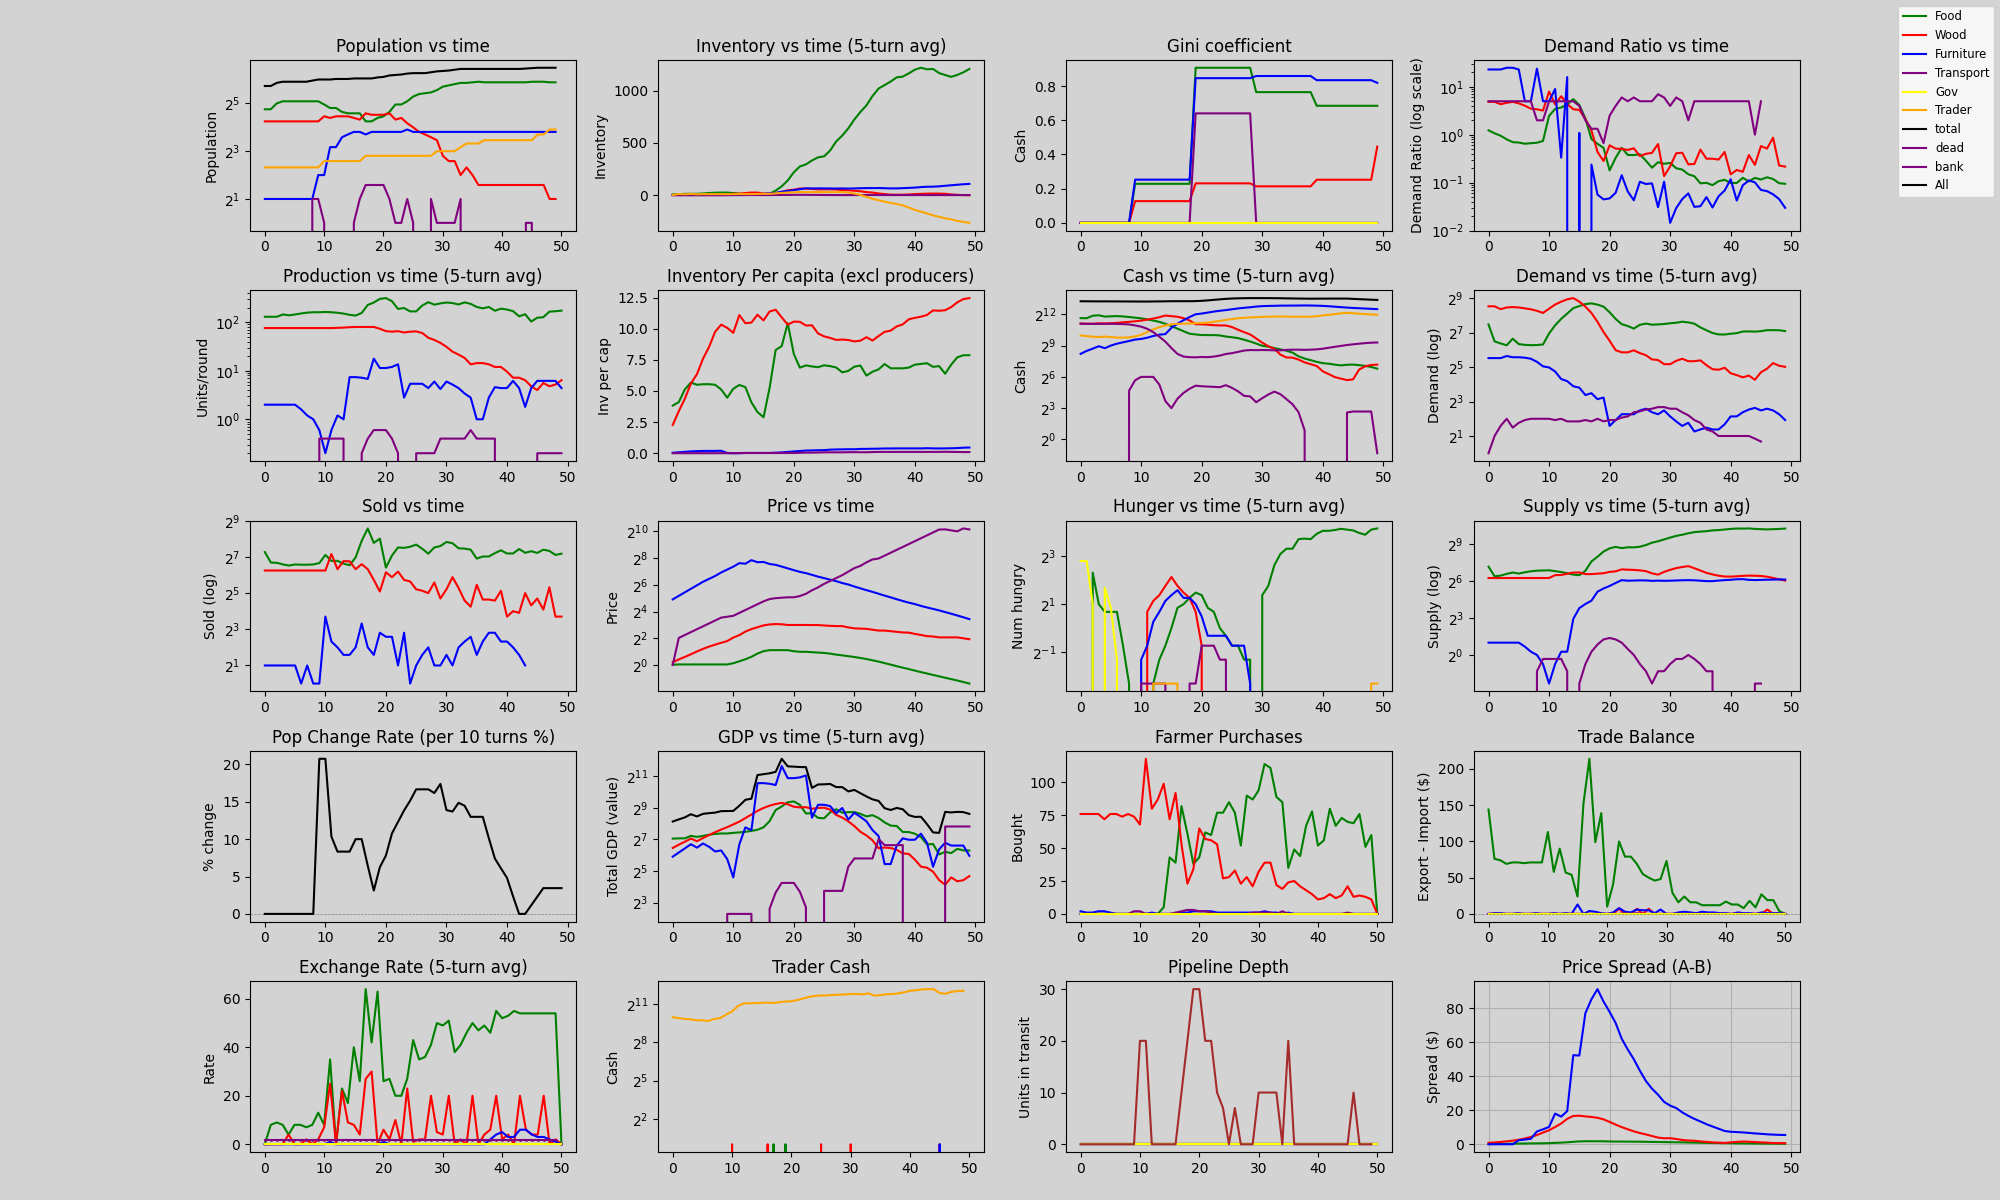
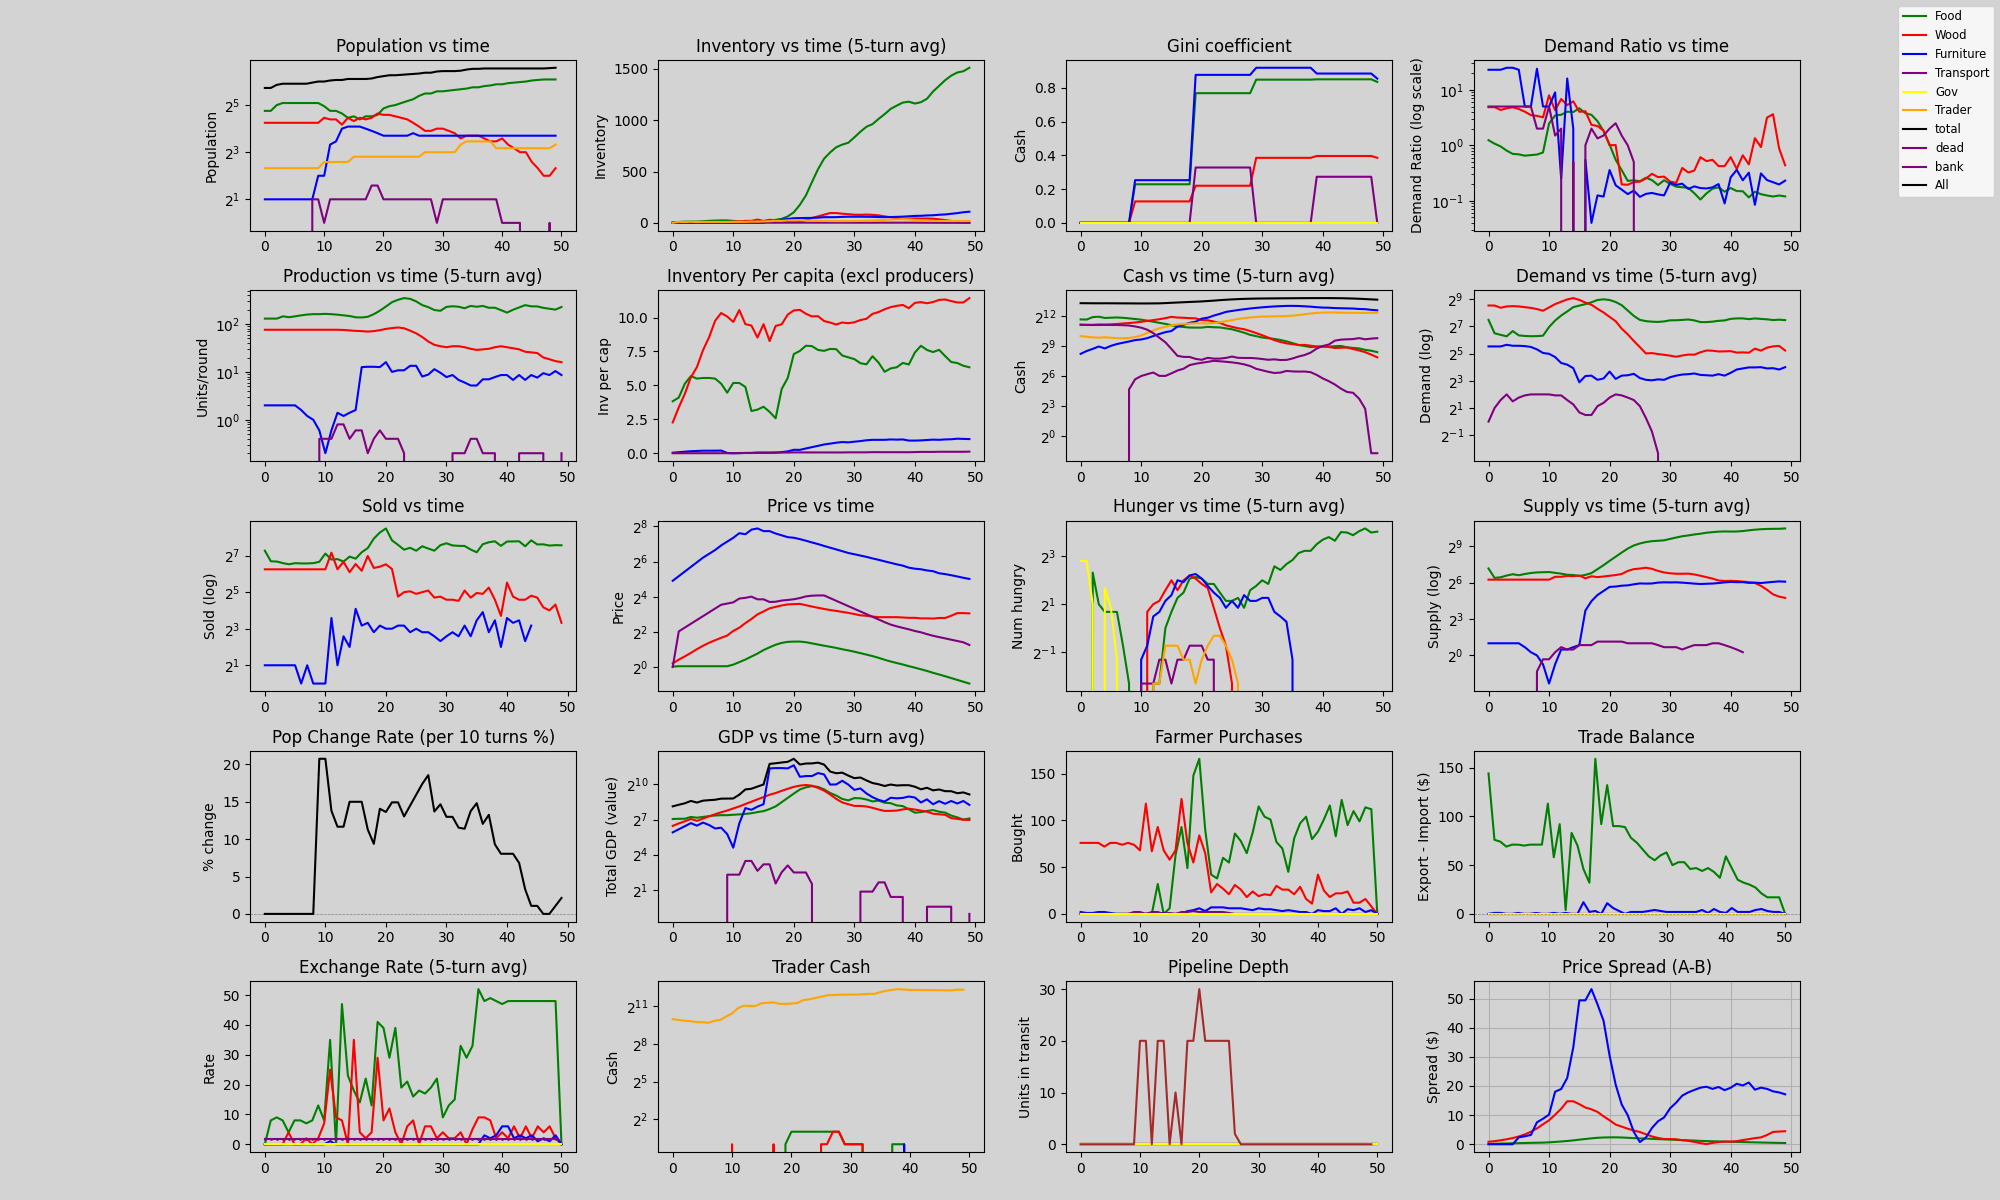
Government-subsidized apprenticeships for endangered professions
- _endangered_professions identifies goods with < 3 non-trader producers
- Career switchers have 50% chance of choosing an endangered profession
- _grant_apprenticeship_subsidy pays government bonus (1x COL for food,
  2x COL for non-food) plus 4 free food and hunger reset
- Parametric bonus formula: multiplier = 2.0 if output != Goods.food else 1.0
- Works alongside last-of-profession invulnerability to keep professions alive

diff --git a/econsim_live.py b/econsim_live.py
@@ -262,7 +262,15 @@ def _handle_career_switching(ctx: LiveContext, t, agent, agents,
     elif agent.cash < 20 and (t - getattr(agent, 'last_career_switch', 0) > 10):
         if rand.random() < 0.1:
             if choices_list:
-                agent.output = rand.choice(choices_list)
+                # Government-subsidized apprenticeships: bias toward
+                # endangered professions (pop < 3) to prevent extinction.
+                endangered = _endangered_professions(ctx, agents, choices_list)
+                if endangered and rand.random() < 0.5:
+                    output = rand.choice(endangered)
+                    _grant_apprenticeship_subsidy(agent, output, t, ctx)
+                else:
+                    output = rand.choice(choices_list)
+                agent.output = output
                 logdebug(t, agent.name(), 'poor, exploring random career:',
                          ctx.profession[agent.output])
                 agent.last_career_switch = t
@@ -296,6 +304,47 @@ def _handle_career_switching(ctx: LiveContext, t, agent, agents,
 # =============================================================================
 # JOB SEEKING
 # =============================================================================
+
+def _count_producers(output, agents):
+    """Count non-trader producers for a given good."""
+    return sum(1 for a in agents if a.alive and a.output == output and not a.is_trader)
+
+
+def _endangered_professions(ctx, agents, choices_list):
+    """Return list of professions with fewer than 3 non-trader producers."""
+    endangered = []
+    for g in choices_list:
+        if _count_producers(g, agents) < 3:
+            endangered.append(g)
+    return endangered
+
+
+def _grant_apprenticeship_subsidy(agent, output, t, ctx):
+    """Government-subsidized apprenticeship for endangered professions.
+    
+    The government pays a cash bonus (1x-2x cost of living) to agents
+    who switch into an endangered profession.  The agent also receives
+    4 free food and has hunger reset so they can survive the career change.
+    """
+    # Parametric bonus formula: all non-food professions get 2x COL
+    # because they require tools/materials; food gets 1x
+    multiplier = 2.0 if output != Goods.food else 1.0
+    col = ctx.cost_of_living
+    subsidy = multiplier * col
+    # Pay from government cash if available
+    gov = ctx.default_gov
+    if gov is not None and gov.agent.cash > 0:
+        actual = min(subsidy, gov.agent.cash)
+        gov.agent.cash -= actual
+    else:
+        actual = 0.0
+    agent.cash += actual
+    agent.hungry_steps = 0
+    agent.inv_set(Goods.food, max(agent.inv_get(Goods.food, 0), 4))
+    if actual > 0:
+        loginfo(t, f"{agent.name()} apprenticeship to {ctx.profession[output]}, "
+                f"subsidy ${actual:.0f}")
+
 
 def _build_employer_cache(agents):
     """Pre-compute eligible employers by output (avoids O(n²) scan)."""
